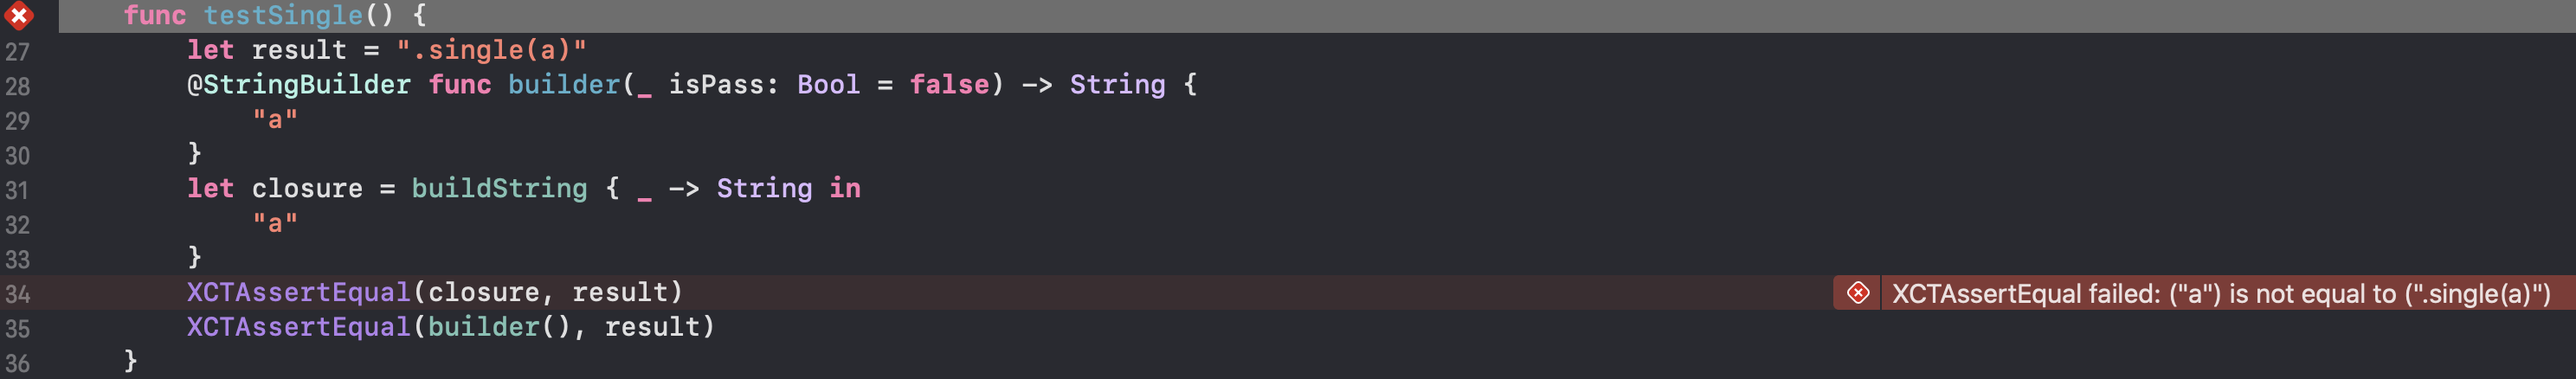
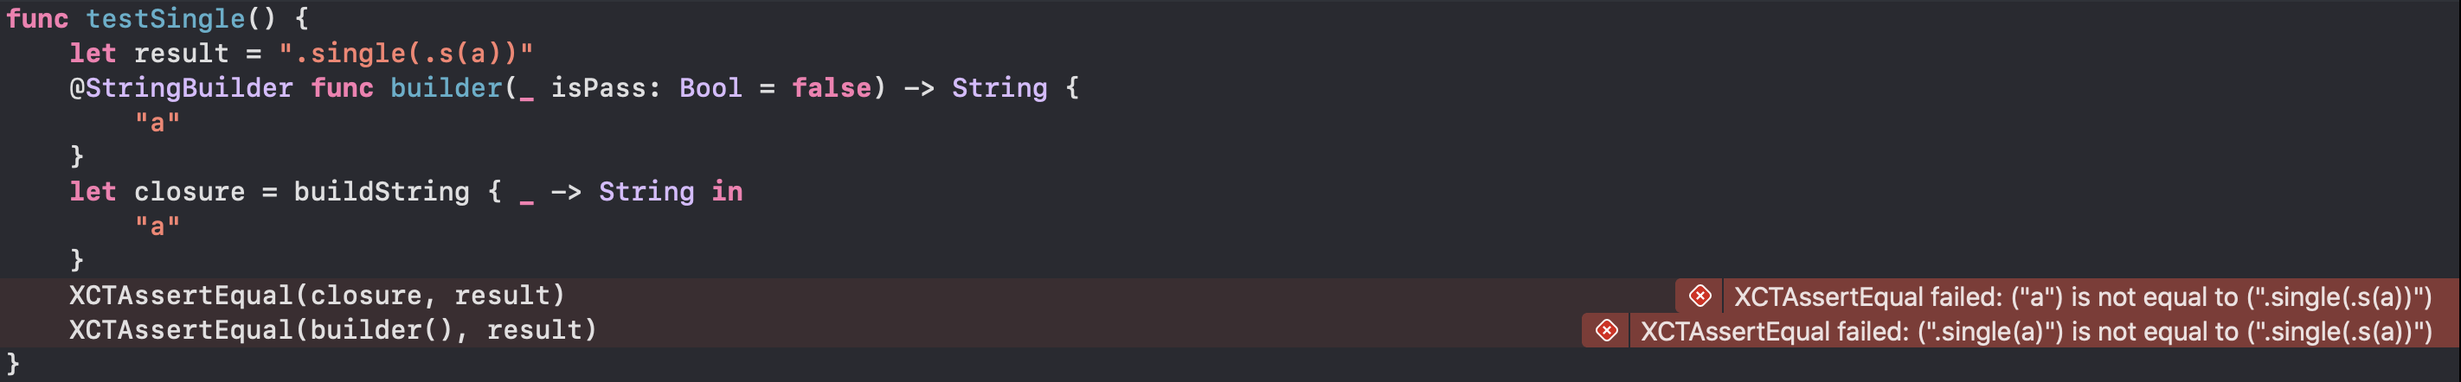
fix bug image

diff --git a/Tests/FunctionBuilderDemoTests/FunctionBuilderDemoTests.swift b/Tests/FunctionBuilderDemoTests/FunctionBuilderDemoTests.swift
@@ -22,9 +22,8 @@ final class FunctionBuilderDemoTests: XCTestCase {
         XCTAssertEqual(builder(), result)
     }
     
-    /// .empty
     func testSingle() {
-        let result = ".single(a)"
+        let result = ".single(.s(a))"
         @StringBuilder func builder(_ isPass: Bool = false) -> String {
             "a"
         }

diff --git a/README.md b/README.md
@@ -13,6 +13,6 @@ support:
  * buildExpression
  * buildDo
 
-bug:
+## XCode Version 11.4 (11E146) bug:
 
 ![](image/bug.png)
